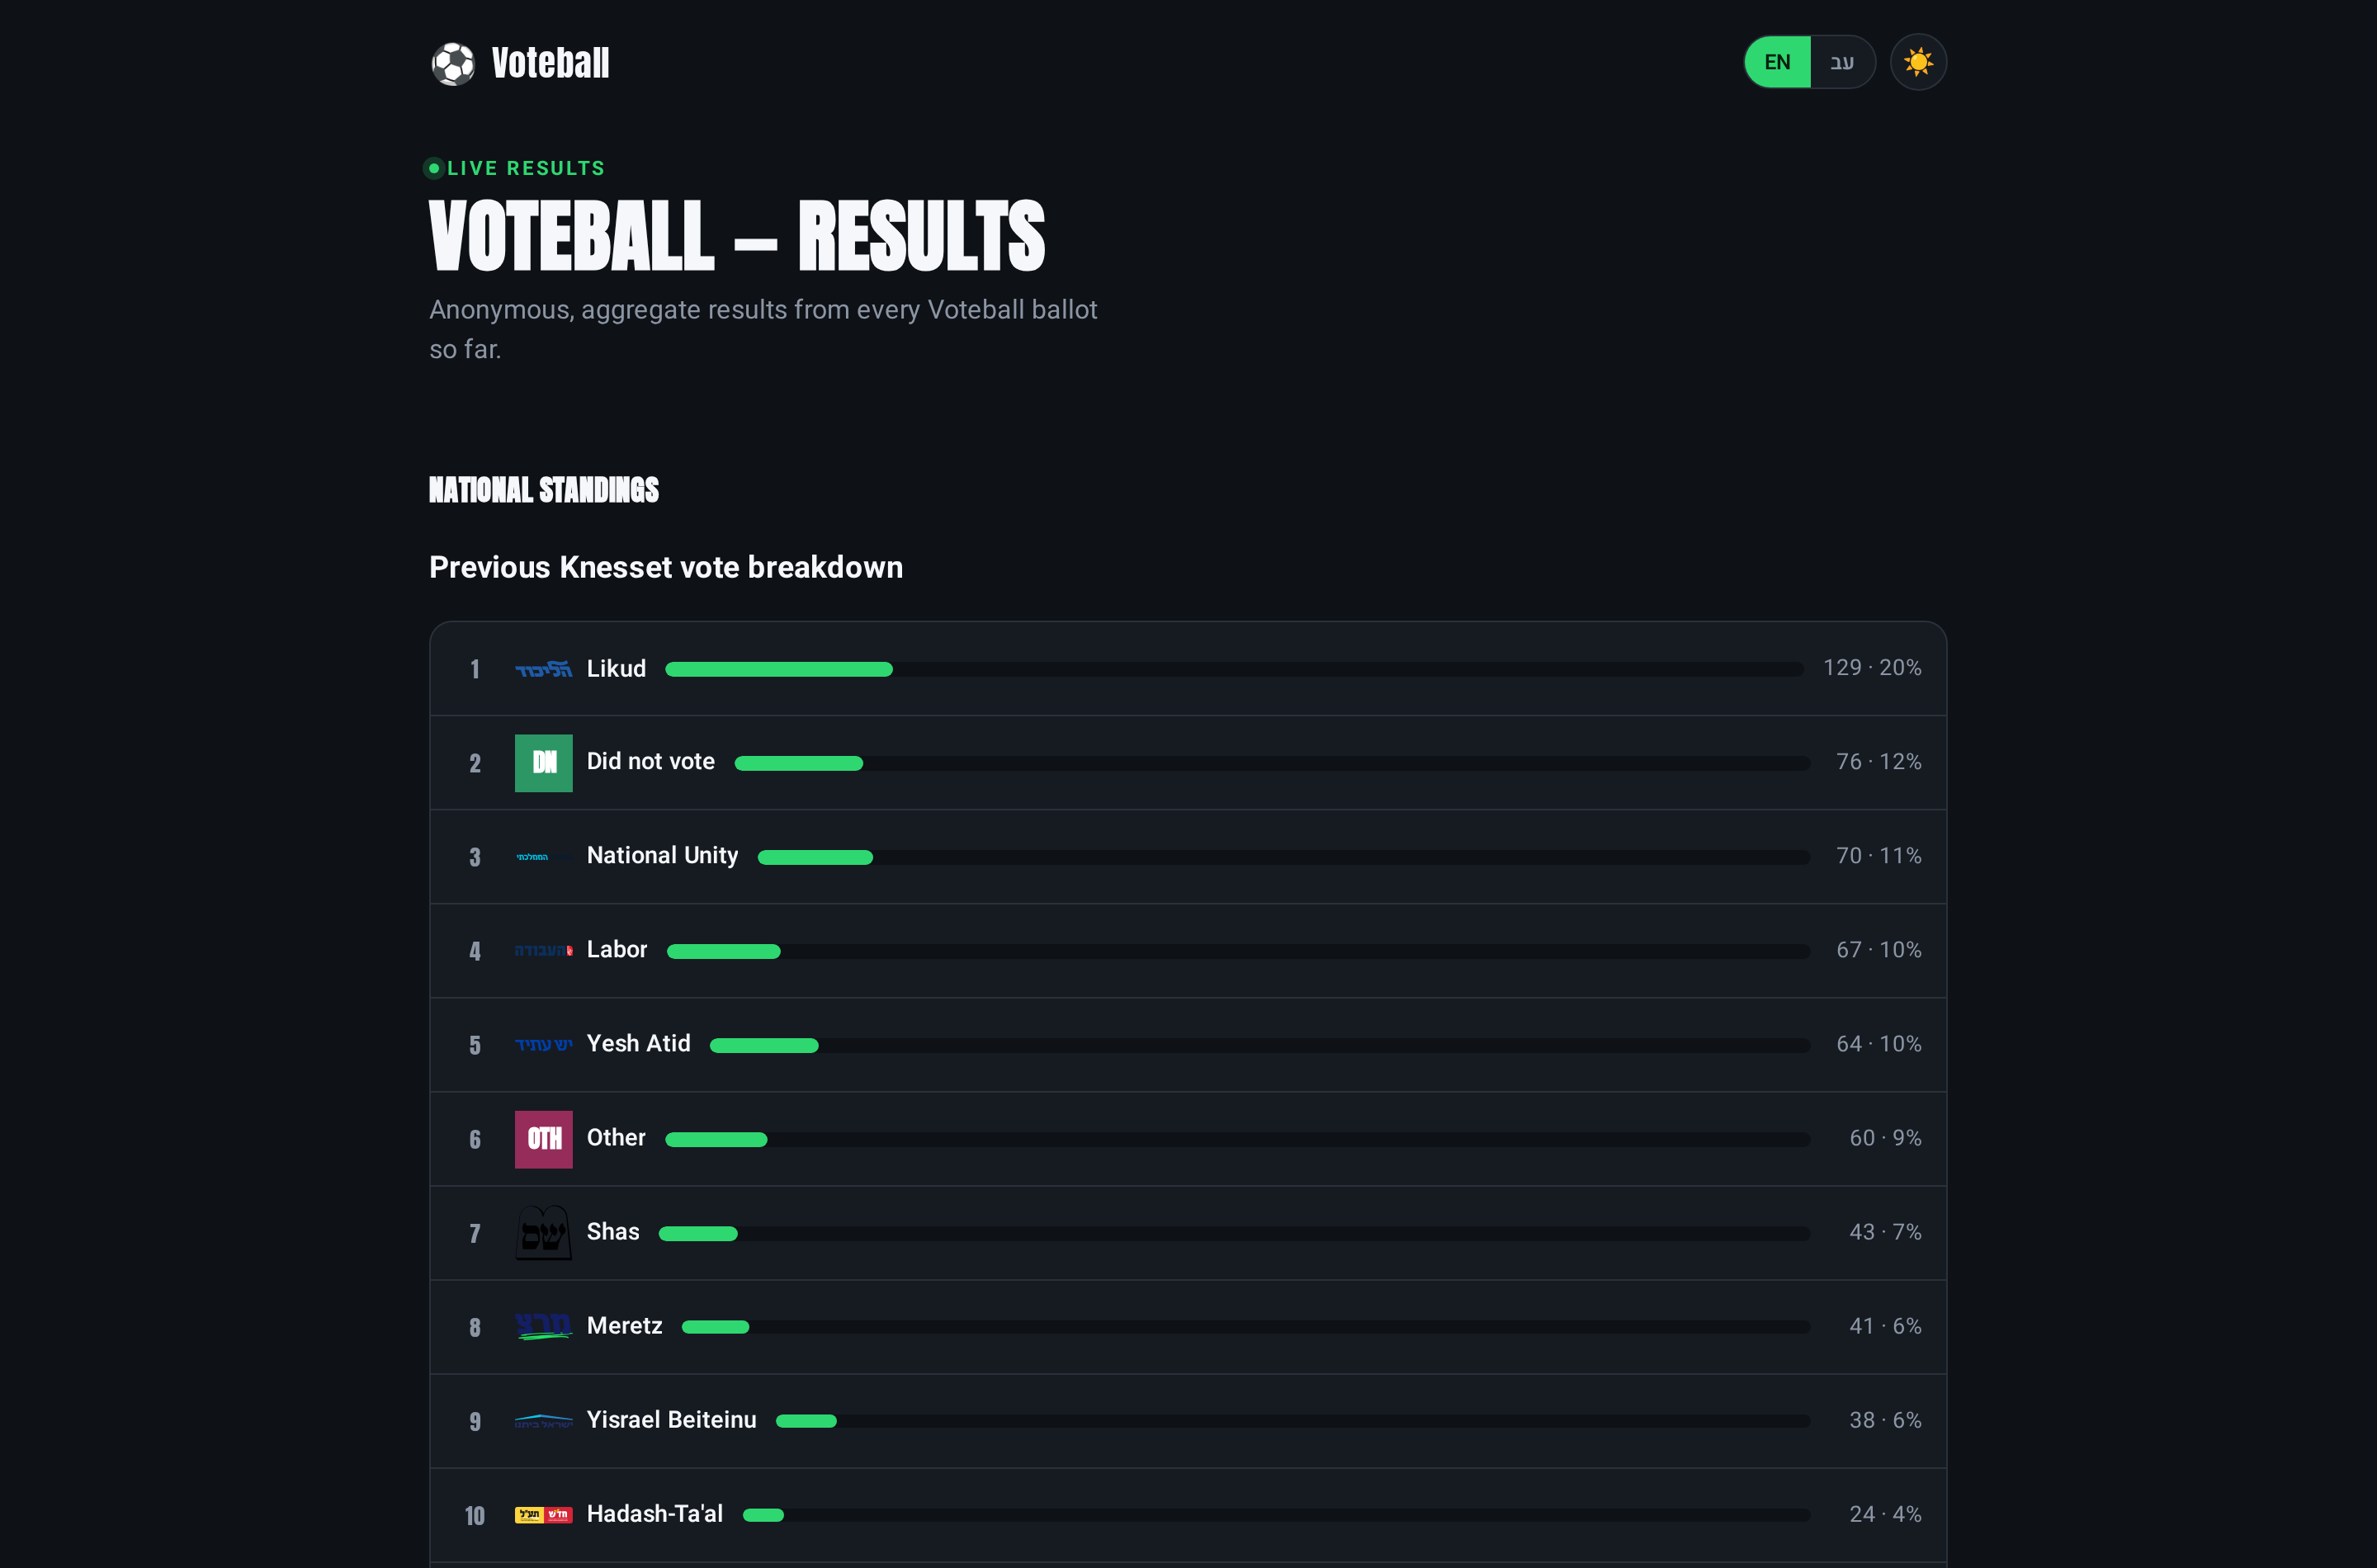
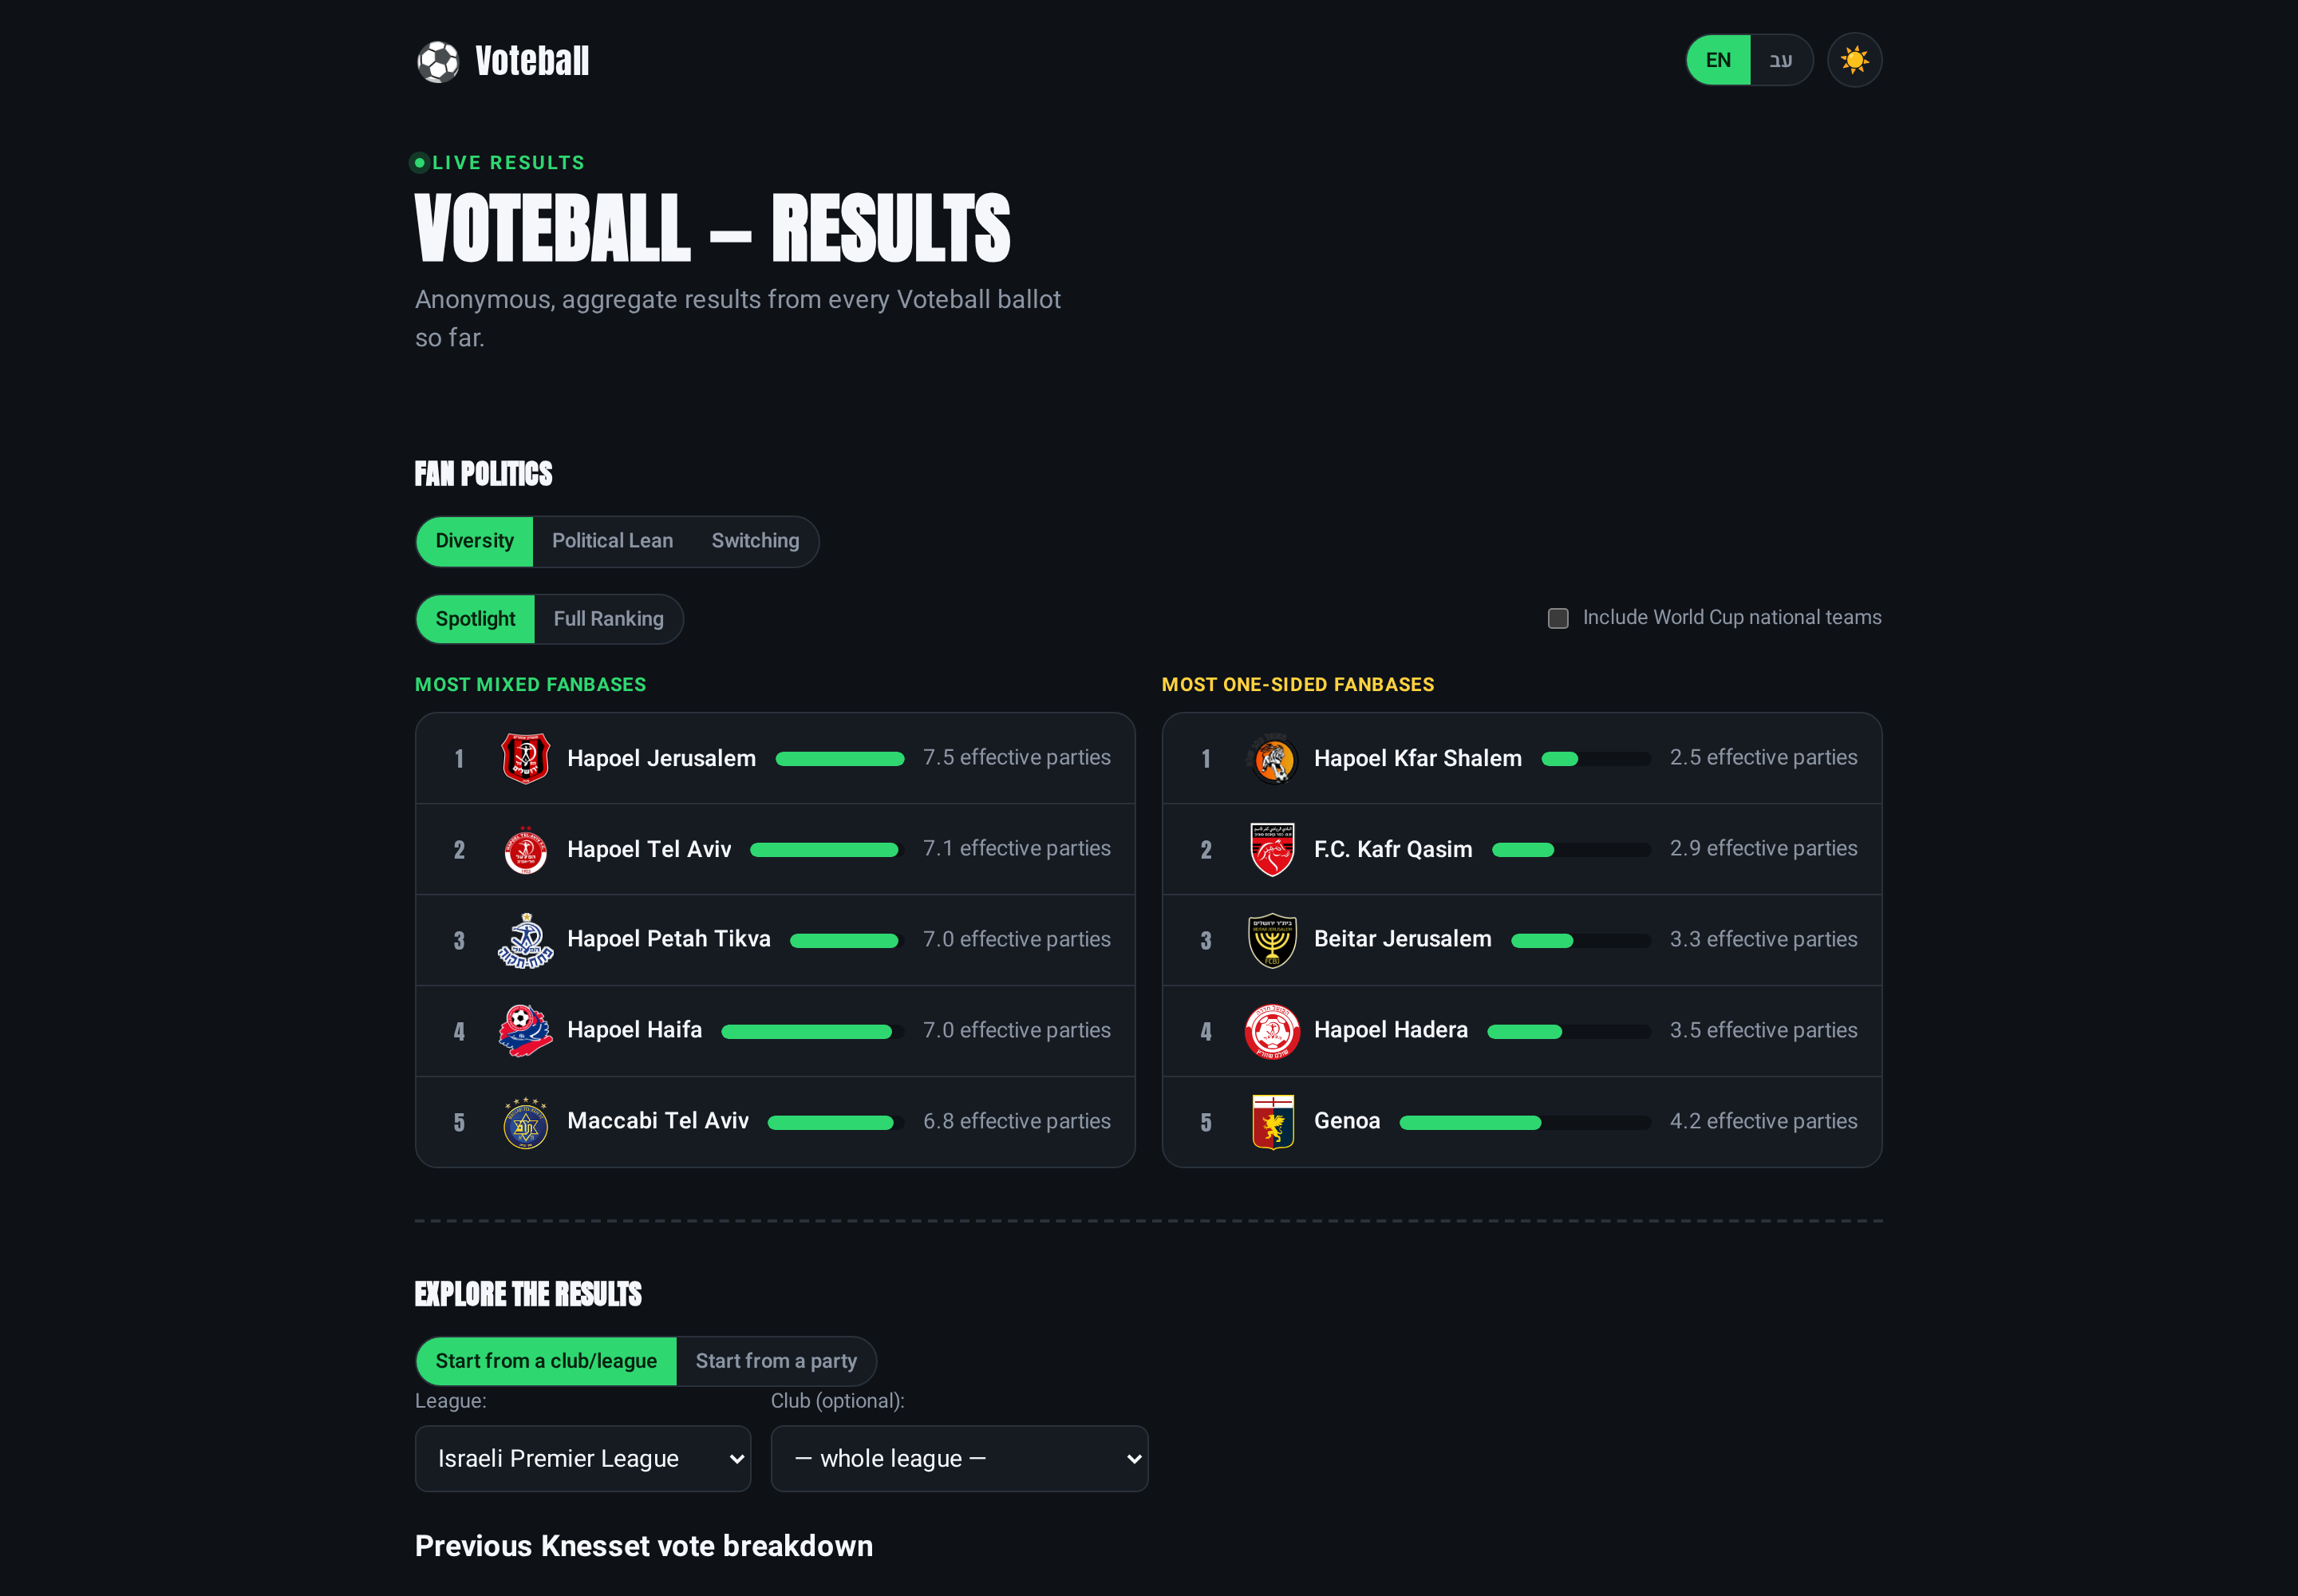
docs: add docs/cicd.md; refresh screenshots; correct stale claims
Adds a dedicated CI/CD doc -- previously the pipeline was described in
fragments across six files with no single place explaining it. Documents the
verified 2026-07-20 run (push -> live in ~4 min: CI 2m15s, ArgoCD sync 45s,
rolling update), the four required GitHub repo variables, and the failure modes
actually hit today -- including that CI cannot assume its IAM role while the
stack is destroyed, which produces an alarming email with a non-obvious cause.

Screenshots re-captured against the fixed layout: the dashboard now opens on
fan-base analytics, plus a new party-mode shot (Balad -> Bnei Sakhnin) that
mirrors the Beitar -> Likud one and shows the repaired explorer toggle.

Corrected three claims that today's changes falsified:
- "throwaway RDS with skip_final_snapshot" -- it now takes a final snapshot
- external-dns "scoped to latnook.com" -- now scoped to route53_zone_name
- "reused the existing k3s creds" -- credentials are now generated per install

diff --git a/docs/cicd.md b/docs/cicd.md
@@ -1,0 +1,143 @@
+# CI/CD pipeline
+
+How a code change becomes a running pod, with no manual deploy step.
+
+Everything below was verified end-to-end on 2026-07-20 against the live cluster; the timings are from
+that run.
+
+---
+
+## The short version
+
+```
+git push (services/**)  →  GitHub Actions  →  ECR  →  values.yaml bump  →  ArgoCD  →  pods roll
+        you                    ~2m15s                     commit           ~45s        ~30s
+```
+
+Total: **about 4 minutes from `git push` to the change being live.** Nobody runs `kubectl` or `helm`.
+
+---
+
+## The pipeline, step by step
+
+### 1. Trigger — `.github/workflows/ci.yml`
+
+```yaml
+on:
+  push:
+    branches: [master]
+    paths:
+      - "services/**"
+      - ".github/workflows/ci.yml"
+```
+
+Only app-source changes rebuild images. Editing `README.md`, `terraform/` or `docs/` does **not** run
+the pipeline.
+
+> **Non-obvious:** the filter is a path match, not a "was this app code?" judgement. A docs-only commit
+> that also touches `services/backend/schema.sql` (e.g. fixing a comment) *will* trigger a full build.
+> That is correct — the file is baked into the backend image — but it surprises people.
+
+### 2. Authenticate to AWS — OIDC, no stored keys
+
+GitHub federates to `${cluster_name}-github-actions` via an OIDC provider, both created by Terraform.
+There are **no AWS access keys in GitHub** — only `AWS_ROLE_ARN`, which is not a secret. The role's
+trust policy is scoped to this repo on `master`.
+
+### 3. Build, scan, push
+
+Four images (`backend`, `worker`, `nginx`, `backup`) are built and tagged with the **short git SHA** —
+never `latest`, so every deployed pod maps to an exact commit.
+
+**Trivy blocks the pipeline** on `CRITICAL`/`HIGH` fixable vulnerabilities in the three app images. The
+`backup` image is third-party (`postgres:17-alpine` + aws-cli) and is scanned **report-only**, since its
+CVEs are upstream Go-tooling issues outside this project's control.
+
+### 4. Bump the tag and commit back
+
+```bash
+sed -i -E "s/^  tag: \".*\"/  tag: \"${TAG}\"/" charts/voteball/values.yaml
+git commit -m "ci: image tag ${TAG} [skip ci]" && git push
+```
+
+**`[skip ci]` is load-bearing.** Without it, CI's own commit would retrigger CI, forever.
+
+### 5. ArgoCD syncs
+
+The `voteball` Application watches `charts/voteball` on `master` with `automated: {prune, selfHeal}`.
+It noticed the new tag and synced **45 seconds** after CI pushed, with no prompting, then Kubernetes
+performed a rolling update across all three Deployments.
+
+---
+
+## Required GitHub repo variables
+
+Settings → Secrets and variables → Actions → **Variables** (none of these are secrets):
+
+| Variable | Value | Where it comes from |
+|---|---|---|
+| `AWS_ROLE_ARN` | `arn:aws:iam::<acct>:role/voteball-github-actions` | `terraform output github_actions_role_arn` |
+| `AWS_REGION` | e.g. `il-central-1` | `aws_region` in your tfvars |
+| `ECR_REGISTRY` | `<acct>.dkr.ecr.<region>.amazonaws.com` | `terraform output ecr_registry` |
+| `CLUSTER_NAME` | `voteball` | `cluster_name` in your tfvars; defaults to `voteball` if unset |
+
+If any of the first three is missing the run fails **immediately** — an empty region produces
+`Input required and not supplied: aws-region`, and an empty registry produces invalid image
+references like `/voteball-backend:abc1234`.
+
+---
+
+## Failure modes seen in practice
+
+| Symptom | Cause | Fix |
+|---|---|---|
+| `Input required and not supplied: aws-region` | `AWS_REGION` / `ECR_REGISTRY` repo variables not set | Set them (table above) |
+| `Could not assume role with OIDC: token could not be validated` | **The stack is destroyed** — the IAM role and OIDC provider are Terraform-managed, so they don't exist | Expected while torn down. Deploy first, or ignore the failed run |
+| CI is green but the site doesn't change | No cluster, or no ArgoCD Application | `kubectl get application voteball -n argocd`; `./scripts/deploy.sh` bootstraps it |
+| Pods go to `ImagePullBackOff` after a sync | `values.yaml` on `master` names a tag/registry that doesn't exist in this account's ECR | `./scripts/sync-values-from-tf.sh --check` |
+| CI retriggers itself in a loop | `[skip ci]` missing from the bump commit | Restore it in `ci.yml` |
+
+**The most important one is the second row:** CI cannot authenticate to AWS while the infrastructure is
+destroyed. Any push during a teardown window fails at the OIDC step. That is arguably correct — there is
+nothing to deploy to — but the failure email looks alarming and the cause is not obvious from the log.
+
+---
+
+## Doing it by hand
+
+`./scripts/deploy.sh` runs the same work locally (build → push → sync values → helm → bootstrap
+ArgoCD). Useful for the first deploy of a fresh cluster, when there is no ArgoCD yet for CI's commit to
+reach.
+
+Note the ordering constraint it encodes: **`values.yaml` must be committed and pushed before the ArgoCD
+Application is created.** Bootstrapping ArgoCD against a `master` that still holds stale values makes it
+immediately revert the deploy — after a rebuild, to an image tag that no longer exists, so every pod
+lands in `ImagePullBackOff`.
+
+---
+
+## Verified run (2026-07-20)
+
+A one-line UI change pushed as `57ef4dd`:
+
+| Stage | Result |
+|---|---|
+| Workflow triggered | ✅ on the `services/**` filter |
+| OIDC auth | ✅ |
+| 4 images built + Trivy blocking scan | ✅ 2m15s |
+| Pushed to ECR, bumped tag | ✅ `3efae90 ci: image tag 57ef4dd [skip ci]` |
+| ArgoCD synced unprompted | ✅ 45s |
+| Rolling update, no downtime | ✅ 0 `ImagePullBackOff` |
+
+The deployed page before and after — same URL, the only human action being `git push`:
+
+| Before | After |
+|---|---|
+| ![Results page before the deploy](images/live-before.png) | ![Results page after the deploy](images/live-after.png) |
+
+Measured from the live DOM rather than eyeballed:
+
+| | Before | After |
+|---|---|---|
+| National standings position | 2nd section | **4th (last)** |
+| `#party-mode` computed `display` | `flex` (bug: both panels shown) | **`none`** |

diff --git a/README.md b/README.md
@@ -16,19 +16,20 @@ add-ons and the app. See the [Quickstart](#quickstart).
 
 ![Voting form with Israeli Premier League clubs](docs/images/vote-form-clubs.png)
 
-**National standings** — live aggregate across every ballot:
+**The results dashboard** opens on fan-base analytics — which clubs draw politically mixed crowds and
+which are one-sided, measured in "effective parties":
 
-![Results dashboard showing national party standings](docs/images/results-overview.png)
+![Results dashboard: most mixed vs most one-sided fanbases](docs/images/results-overview.png)
 
-**The actual point of the poll** — pick a club, see how its fans voted. Beitar Jerusalem's fanbase
-leans heavily Likud; picking Bnei Sakhnin instead flips the board to Balad, Hadash-Ta'al and Ra'am:
+**The actual point of the poll** — start from a club and see how its fans voted. Beitar Jerusalem's
+fanbase leans heavily Likud:
 
 ![Party breakdown for Beitar Jerusalem fans](docs/images/results-club-breakdown.png)
 
-**Fan-base analytics** — which clubs draw politically mixed crowds, and which are one-sided
-(measured in "effective parties"):
+**Or run it backwards** — start from a party and see which clubs its voters follow. Balad's voters
+are concentrated in Bnei Sakhnin, the mirror image of the Beitar result:
 
-![Most mixed vs most one-sided fanbases](docs/images/results-diversity.png)
+![Club breakdown for Balad voters](docs/images/results-party-mode.png)
 
 **Dark mode and mobile** — party logos are recoloured for dark backgrounds:
 
@@ -144,6 +145,7 @@ Then open <http://localhost:8080>. The backend creates its own schema and seed d
 
 - **[`README.submission.md`](README.submission.md)** — the turn-in doc: architecture, run/verify/delete, security, trade-offs.
 - **[`docs/deploy.md`](docs/deploy.md)** — plain-language deploy/verify/teardown guide.
+- **[`docs/cicd.md`](docs/cicd.md)** — the CI/CD pipeline: push → build → Trivy → ECR → ArgoCD, the repo variables it needs, and its failure modes.
 - **[`docs/security.md`](docs/security.md)** — security design (IRSA, secrets, network, images, trade-offs).
 - **[`docs/eks/architecture.md`](docs/eks/architecture.md)** — architecture diagram.
 - **[`docs/design/`](docs/design/)** — one design doc per feature/infrastructure pass: the reasoning

diff --git a/docs/security.md b/docs/security.md
@@ -30,7 +30,8 @@ JSON is hand-written (not a module default) in `terraform/irsa.tf` precisely so 
 Add-on controllers (ALB Controller, External Secrets Operator, Cluster Autoscaler, CloudWatch,
 external-dns) each get their own scoped IRSA role via the community `iam-role-for-service-accounts-eks`
 helper, which attaches **AWS's own published policies** for each controller (the authoritative
-least-privilege definition). external-dns is scoped to the `latnook.com` hosted zone only; the
+least-privilege definition). external-dns is scoped to the configured hosted zone only
+(`route53_zone_name`); the
 Autoscaler to this cluster's ASG only; ESO to the one app secret only.
 
 ## Secrets
@@ -114,8 +115,8 @@ change them:
 
 | Choice | Demo (here) | Production would |
 |---|---|---|
-| App credentials | **Reused** the existing k3s creds | Rotate all on cutover (repo history) |
-| EKS RDS | Throwaway copy, `skip_final_snapshot`, single-AZ, no deletion protection | Final snapshots, Multi-AZ, deletion protection |
+| App credentials | Generated per install (`db_password` in tfvars, admin password entered at seed time) | Managed rotation (Secrets Manager rotation lambda) |
+| EKS RDS | Single-AZ, no deletion protection (a final snapshot IS taken on destroy, so destroy/rebuild preserves data) | Multi-AZ, deletion protection, PITR |
 | EKS API endpoint | Public (IAM-authed), CIDR = `0.0.0.0/0` | Lock CIDR to operator/CI, or private-only + bastion |
 | Node group | Spot, diversified types (no On-Demand fallback) | Add On-Demand fallback for guaranteed capacity |
 | NAT gateway | Single (one AZ) | One per AZ |

diff --git a/README.submission.md b/README.submission.md
@@ -44,7 +44,9 @@ what you delete), then the Ingress (releasing the ALB and its DNS records), then
 final DB snapshot, so a destroy/rebuild cycle preserves the votes.
 
 **CI/CD:** pushing app-code to `master` runs GitHub Actions (OIDC → build → **Trivy** → ECR → bump image
-tag → **ArgoCD** auto-syncs). No stored AWS keys.
+tag → **ArgoCD** auto-syncs). No stored AWS keys. Verified end-to-end on 2026-07-20: a UI change went
+from `git push` to live in ~4 minutes with no manual step — see
+[`docs/cicd.md`](docs/cicd.md) for the measured run.
 
 ## How to verify
 
@@ -98,6 +100,6 @@ deploy restores the votes. Each of those steps was added after a real teardown f
 ## Trade-offs & compromises
 
 Documented in full in [`docs/security.md`](docs/security.md#deliberate-trade-offs-demo-vs-production) —
-notably: reused (not rotated) credentials, a throwaway single-AZ RDS with `skip_final_snapshot`, a public
+notably: reused (not rotated) credentials, a single-AZ RDS without deletion protection, a public
 (IAM-authed) API endpoint, a single NAT gateway, Spot nodes without On-Demand fallback, and report-only
 Trivy on the third-party backup image. Each is a deliberate demo decision, not an oversight.

diff --git a/CLAUDE.md b/CLAUDE.md
@@ -147,7 +147,9 @@ trust as pre-escaped HTML.
   environment or a silent prompt and writes them to Secrets Manager; nothing secret enters git or
   tfstate. `DB_PASS` **must** match `db_password` in `terraform/voteball.tfvars`.
 - **CI/CD:** pushing app code to `master` runs `.github/workflows/ci.yml` (OIDC → build → Trivy → ECR →
-  bump `image.tag` `[skip ci]` → ArgoCD auto-syncs). `./scripts/build-push-ecr.sh` does it by hand.
+  bump `image.tag` `[skip ci]` → ArgoCD auto-syncs, ~4 min end to end). `./scripts/build-push-ecr.sh`
+  does it by hand. **See `docs/cicd.md`** for the full flow, the four required GitHub repo variables,
+  and failure modes — notably that CI cannot assume its IAM role while the stack is destroyed.
 
 **Teardown order matters** and `./scripts/destroy.sh` encodes it: delete the ArgoCD Application (else
 `selfHeal` recreates what you remove), then the Ingress (so the ALB de-provisions and external-dns